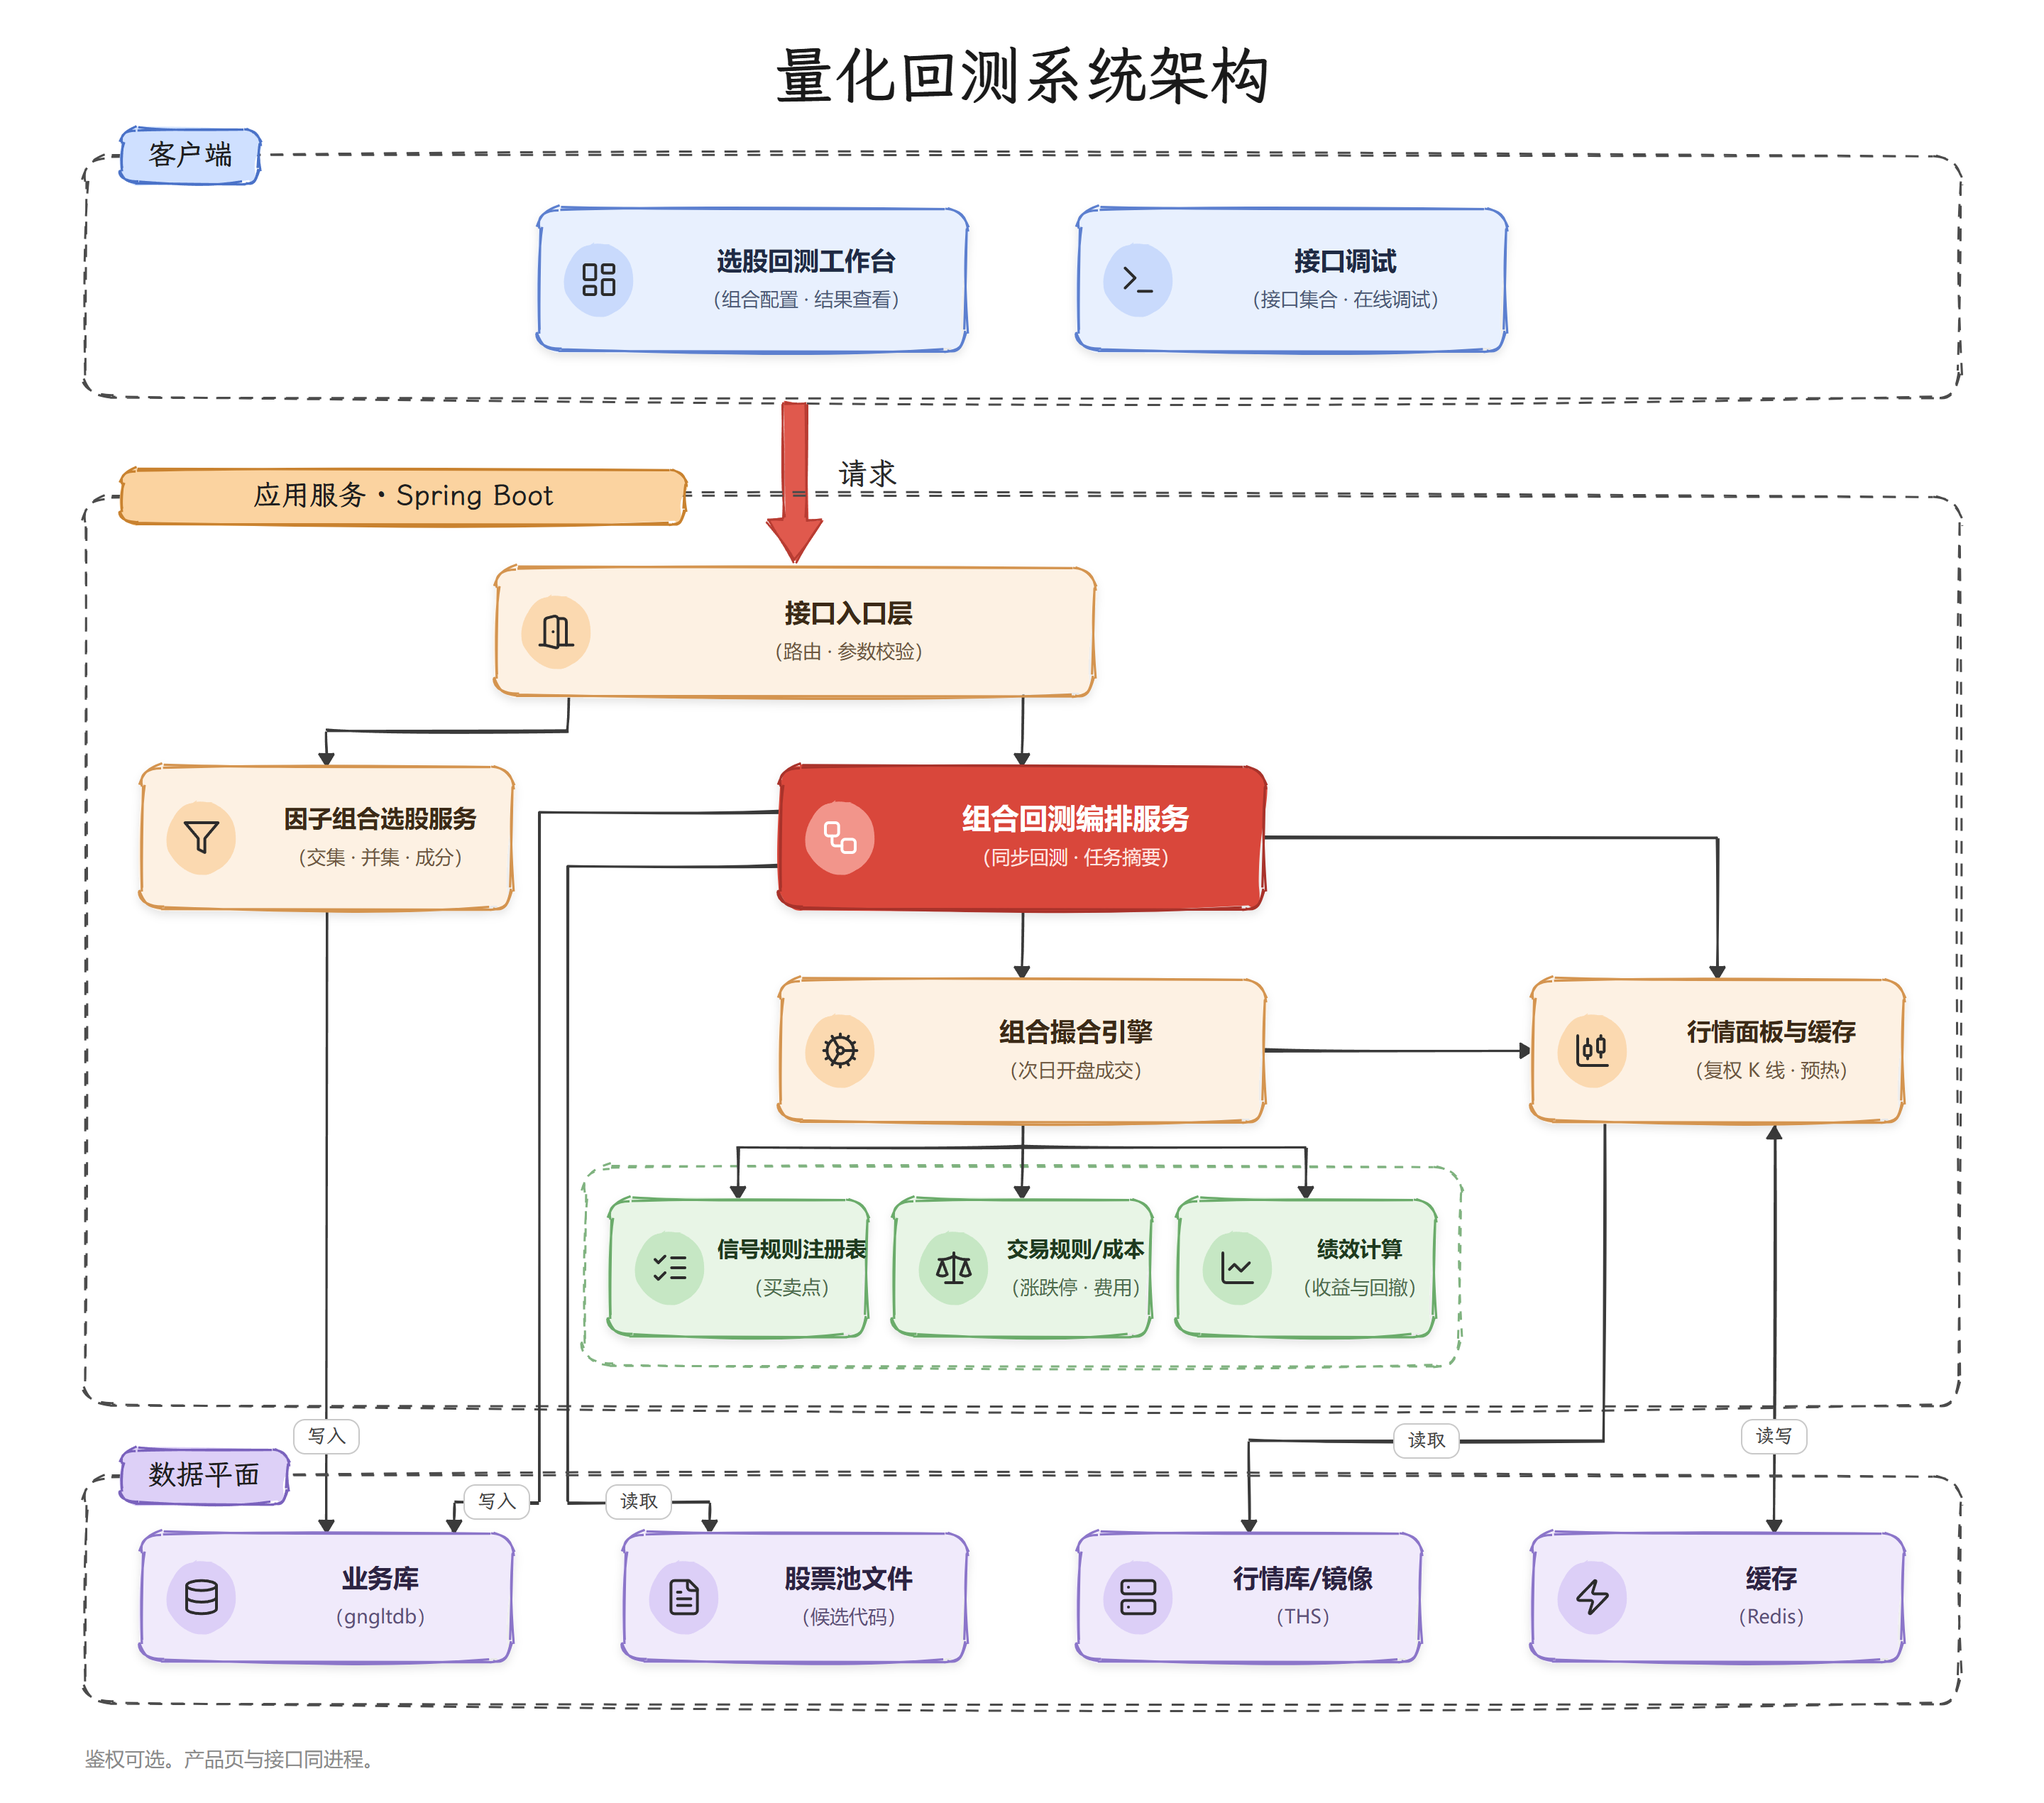
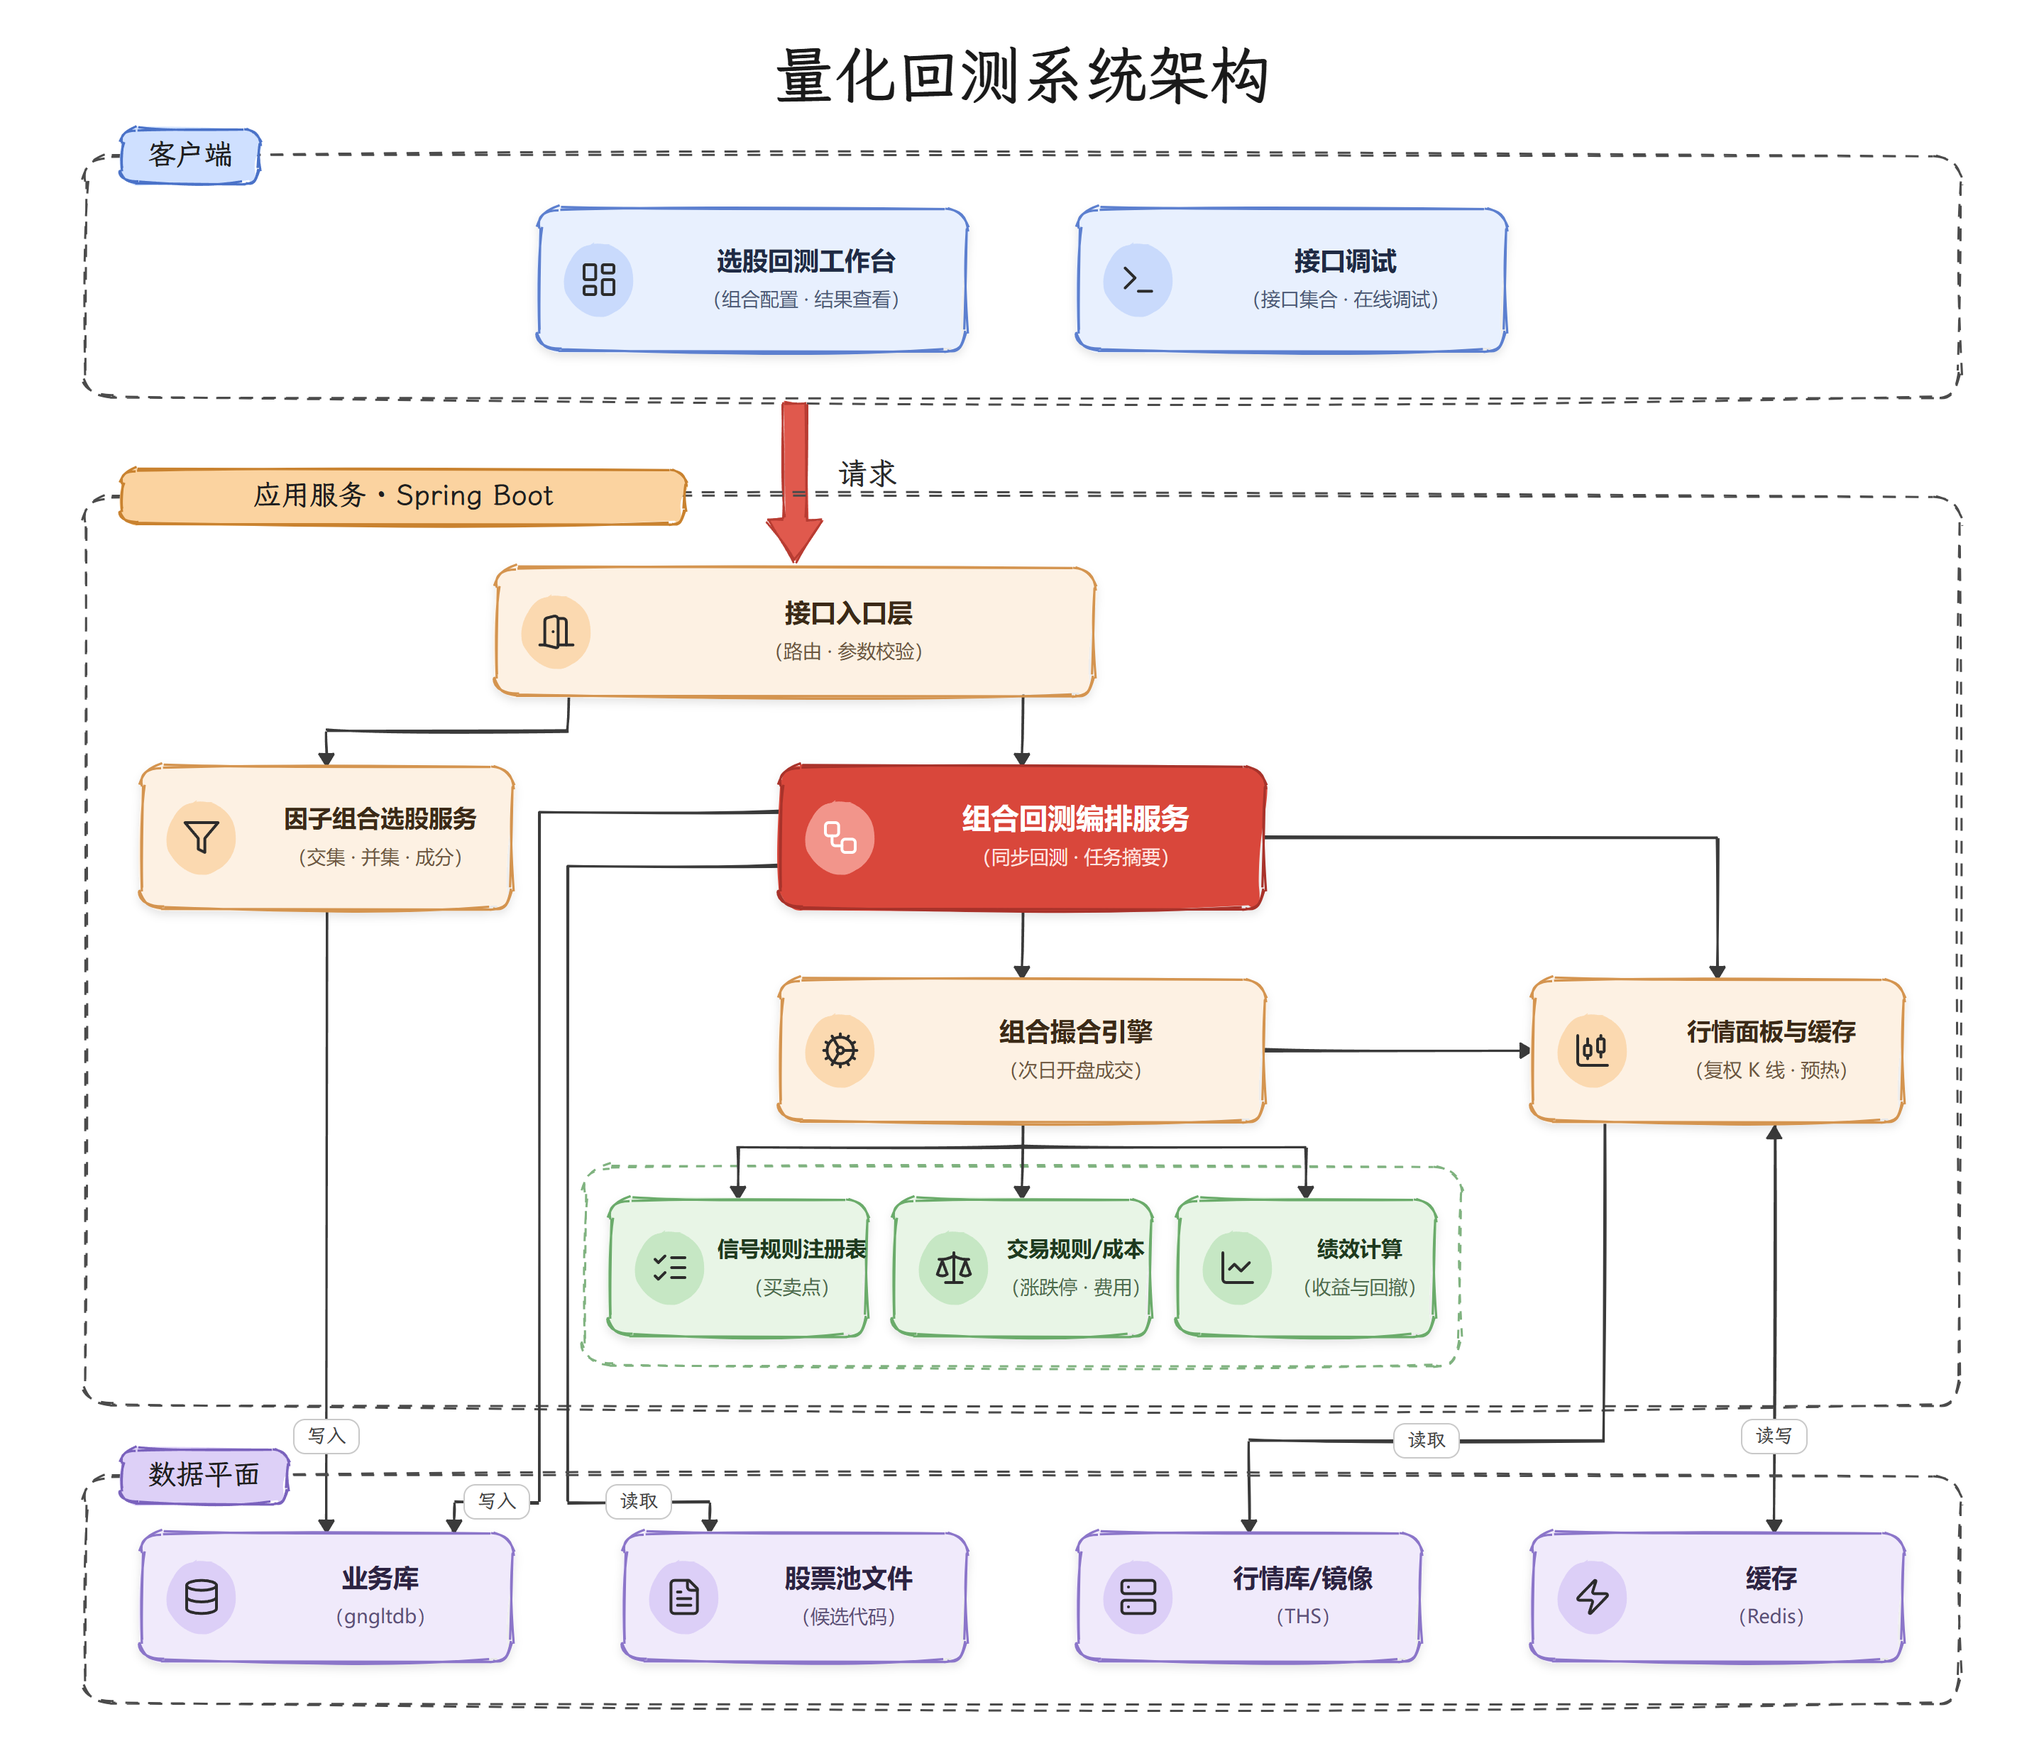
Drop the footer note from the architecture diagram.

diff --git a/diagrams/html/architecture.html b/diagrams/html/architecture.html
@@ -14,13 +14,13 @@
 </style>
 </head>
 <body>
-<svg id="canvas" xmlns="http://www.w3.org/2000/svg" width="1440" height="1270" viewBox="0 0 1440 1270">
+<svg id="canvas" xmlns="http://www.w3.org/2000/svg" width="1440" height="1230" viewBox="0 0 1440 1230">
   <defs>
     <filter id="shadow" x="-10%" y="-10%" width="130%" height="140%">
       <feDropShadow dx="0" dy="3" stdDeviation="3" flood-color="#000" flood-opacity="0.10" />
     </filter>
   </defs>
-  <rect width="1440" height="1270" fill="#ffffff" />
+  <rect width="1440" height="1230" fill="#ffffff" />
 </svg>
 <script>
 const svg = document.getElementById("canvas");
@@ -180,7 +180,6 @@ function draw() {
   chip(1005, 1015, "读取");
   chip(1250, 1012, "读写");
 
-  text(60, 1240, "鉴权可选。产品页与接口同进程。", { size: 14, color: "#8a8a8a", anchor: "start" });
   document.body.dataset.ready = "1";
 }
 
